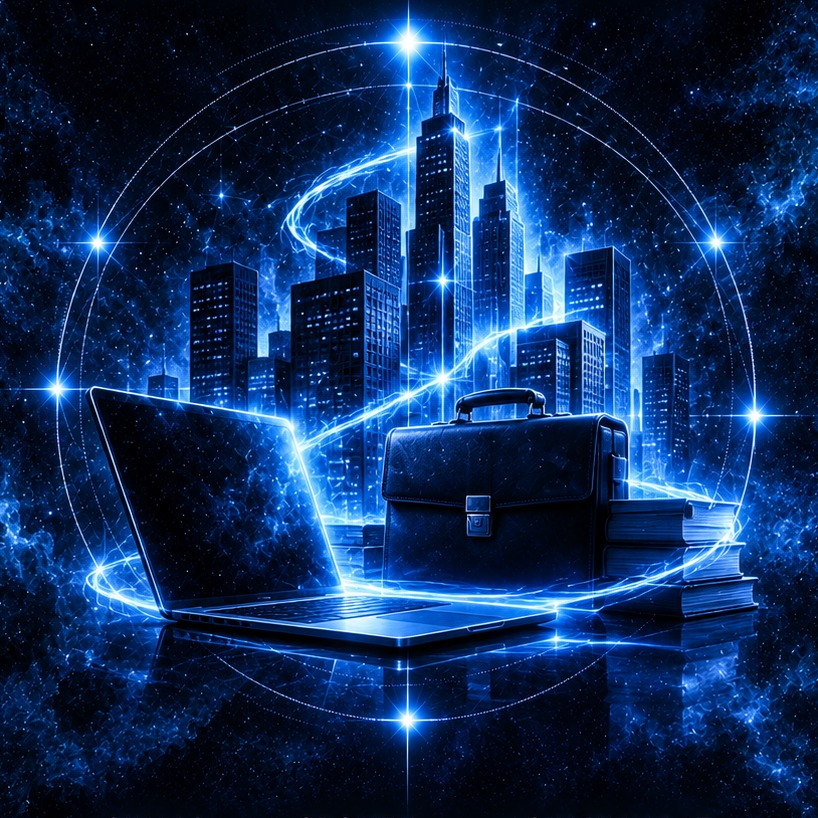
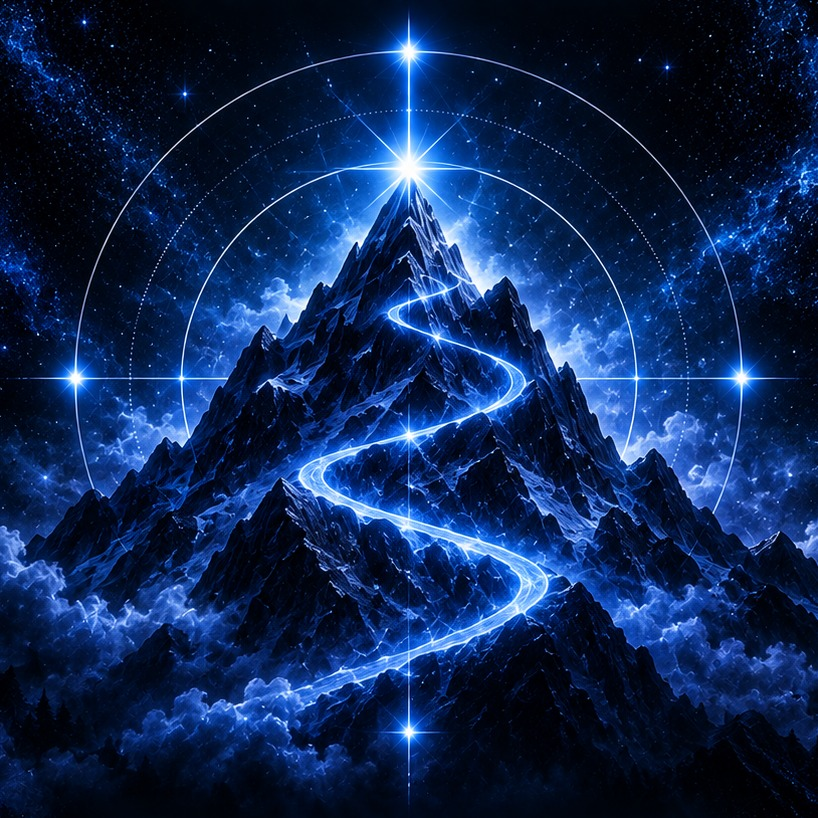
Add hero art for the remaining 4 life areas, refresh Professional's
Personal, Social, Spiritual, and Philanthropic now have the same sky
backdrop/cover-page treatment as the first 4 areas, wired through the
existing kAreaHeroArt registry (lib/utils/area_hero_art.dart) — no other
code changes needed, everything downstream was already generalized.
Center-crop JPGs generated for each (per-image-tuned crop offset to fully
exclude the source art's baked-in title/tagline).

Professional's own art was replaced with a new composition (a mountain,
was a city/briefcase/laptop scene) — regenerated its center-crop to match.

diff --git a/lib/utils/area_hero_art.dart b/lib/utils/area_hero_art.dart
@@ -38,4 +38,20 @@ const Map<LifeArea, AreaHeroArt> kAreaHeroArt = {
     coverAsset: 'assets/images/4. Financial.png',
     skyAsset: 'assets/images/4. Financial - CENTER CROP.jpg',
   ),
+  LifeArea.personal: AreaHeroArt(
+    coverAsset: 'assets/images/5. Personal.png',
+    skyAsset: 'assets/images/5. Personal - CENTER CROP.jpg',
+  ),
+  LifeArea.social: AreaHeroArt(
+    coverAsset: 'assets/images/6. Social.png',
+    skyAsset: 'assets/images/6. Social - CENTER CROP.jpg',
+  ),
+  LifeArea.spiritual: AreaHeroArt(
+    coverAsset: 'assets/images/7. Spiritual.png',
+    skyAsset: 'assets/images/7. Spiritual - CENTER CROP.jpg',
+  ),
+  LifeArea.philanthropic: AreaHeroArt(
+    coverAsset: 'assets/images/8. Philanthropic.png',
+    skyAsset: 'assets/images/8. Philanthropic - CENTER CROP.jpg',
+  ),
 };
